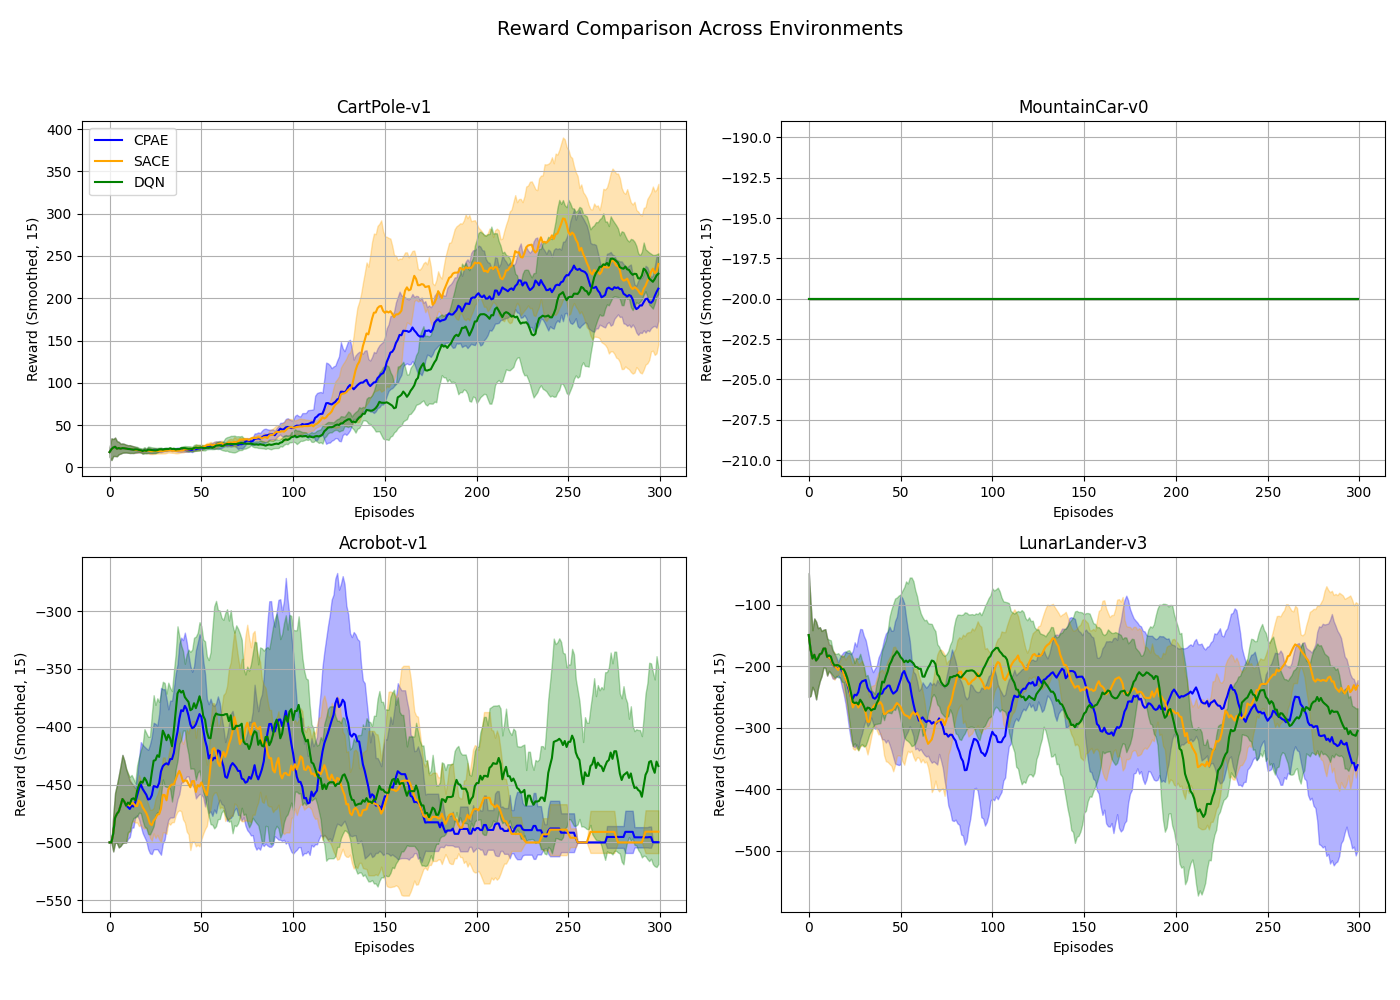
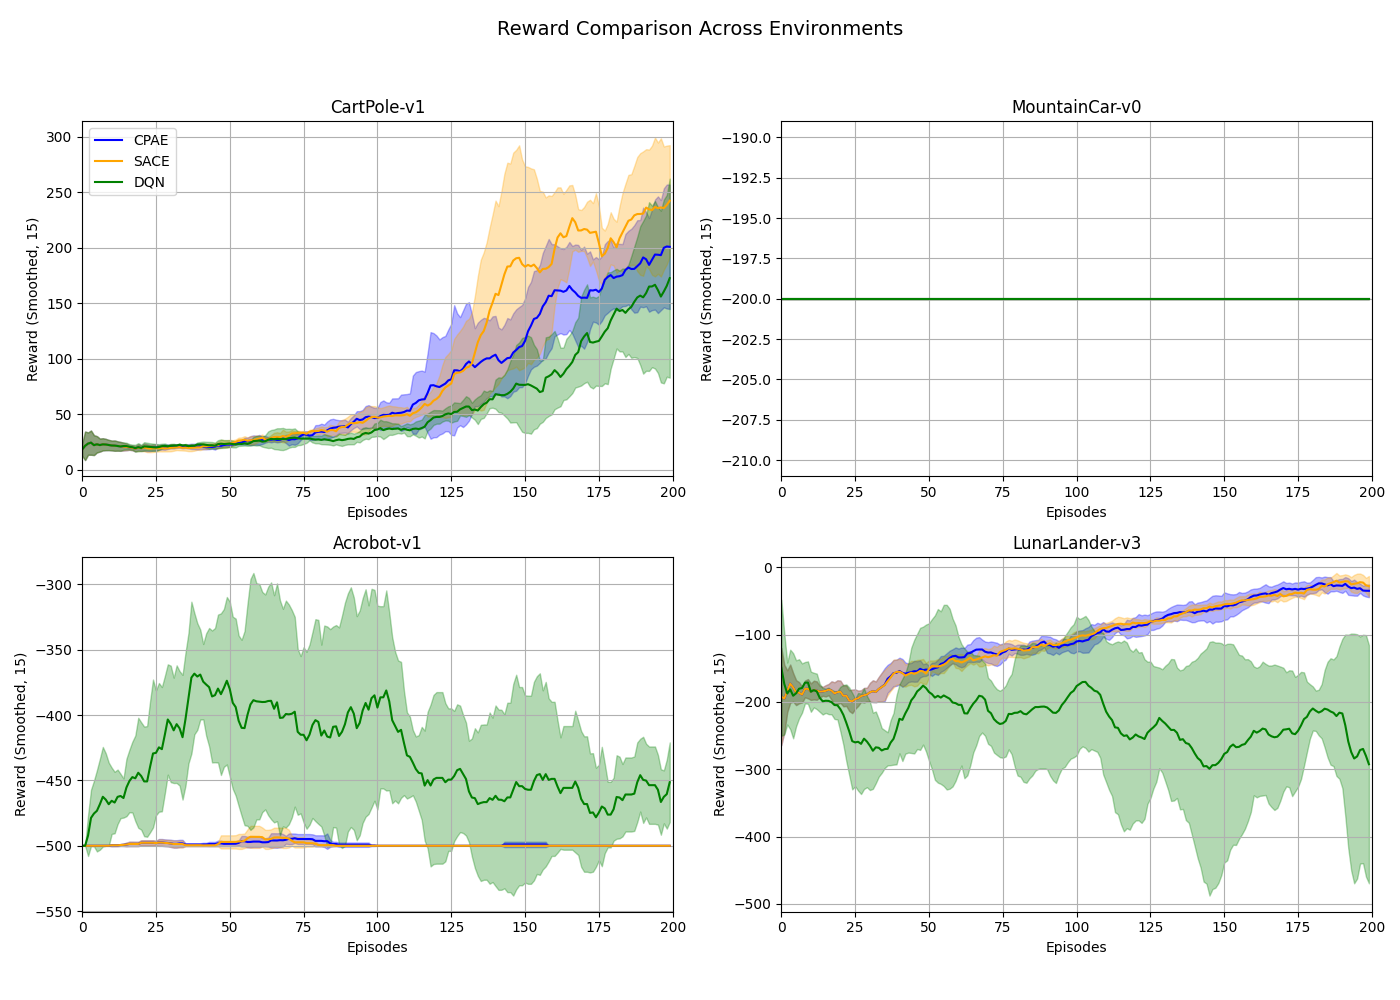
new results

diff --git a/plot.py b/plot.py
@@ -13,7 +13,7 @@ def smooth(data, window=25):
             smoothed[i, t] = data[i, start:t+1].mean()
     return smoothed
 
-def plot_all(envs, window=25):
+def plot_all(envs, window=25, max_episodes=200):
     fig, axes = plt.subplots(2, 2, figsize=(14, 10))
     axes = axes.flatten()
 
@@ -24,14 +24,14 @@ def plot_all(envs, window=25):
         # Load rewards
         reward_cpae = np.load(path + "cbow.npy")       # CBOW = CPAE
         reward_sace = np.load(path + "skipgram.npy")   # SkipGram = SACE
-        reward_dqn = np.load(path + "dqn.npy")
+        reward_dqn  = np.load(path + "dqn.npy")
 
-        # Apply smoothing
-        reward_cpae = smooth(reward_cpae, window)
-        reward_sace = smooth(reward_sace, window)
-        reward_dqn = smooth(reward_dqn, window)
+        # Apply smoothing and retain only first max_episodes
+        reward_cpae = smooth(reward_cpae, window)[:, :max_episodes]
+        reward_sace = smooth(reward_sace, window)[:, :max_episodes]
+        reward_dqn  = smooth(reward_dqn,  window)[:, :max_episodes]
 
-        x = np.arange(reward_cpae.shape[1])
+        x = np.arange(reward_cpae.shape[1])  # now length = max_episodes
 
         def plot_with_std(mean, std, color, label):
             lower = mean - std
@@ -42,17 +42,18 @@ def plot_all(envs, window=25):
         # Compute mean and std across seeds
         mean_cpae, std_cpae = np.mean(reward_cpae, axis=0), np.std(reward_cpae, axis=0)
         mean_sace, std_sace = np.mean(reward_sace, axis=0), np.std(reward_sace, axis=0)
-        mean_dqn, std_dqn   = np.mean(reward_dqn, axis=0), np.std(reward_dqn, axis=0)
+        mean_dqn,  std_dqn  = np.mean(reward_dqn,  axis=0), np.std(reward_dqn,  axis=0)
 
         # Plot each curve
         plot_with_std(mean_cpae, std_cpae, 'blue', 'CPAE')
         plot_with_std(mean_sace, std_sace, 'orange', 'SACE')
-        plot_with_std(mean_dqn, std_dqn, 'green', 'DQN')
+        plot_with_std(mean_dqn,  std_dqn,  'green', 'DQN')
 
         ax.set_title(env)
         ax.set_xlabel("Episodes")
         ax.set_ylabel(f"Reward (Smoothed, {window})")
         ax.grid(True)
+        ax.set_xlim([0, max_episodes])   # limit x-axis to 200
         if idx == 0:  # show legend only once
             ax.legend(loc="upper left")
 
@@ -64,4 +65,4 @@ def plot_all(envs, window=25):
     plt.show()
 
 # Call
-plot_all(envs, window=15)
+plot_all(envs, window=15, max_episodes=200)

diff --git a/get_avg.py b/get_avg.py
@@ -4,7 +4,8 @@ envs = ["CartPole-v1", "MountainCar-v0", "Acrobot-v1", "LunarLander-v3"]
 methods = {"dqn": "DQN", "cbow": "CPAE", "skipgram": "SACE"}
 
 # Config
-LAST_N = 20  # number of episodes to average at the end
+LAST_N = 20       # number of episodes to average at the end
+MAX_EPISODES = 200  # truncate to first 200 episodes
 
 for env in envs:
     print(f"\n--- {env} ---")
@@ -12,13 +13,16 @@ for env in envs:
         data = np.load(f"results/{env}/{method_key}.npy")  
         # data shape: (num_seeds, num_episodes)
 
-        # (1) Final episode only
+        # Truncate to first MAX_EPISODES
+        data = data[:, :MAX_EPISODES]
+
+        # (1) Final episode only (episode 200)
         final_rewards = data[:, -1]
 
-        # (2) Last-N average
+        # (2) Last-N average (last N of the truncated segment)
         lastN_rewards = data[:, -LAST_N:].mean(axis=1)
 
-        # (3) Mean across all episodes (AUC style)
+        # (3) Mean across all episodes (AUC style, first 200 only)
         mean_rewards = data.mean(axis=1)
 
         # Print nicely
